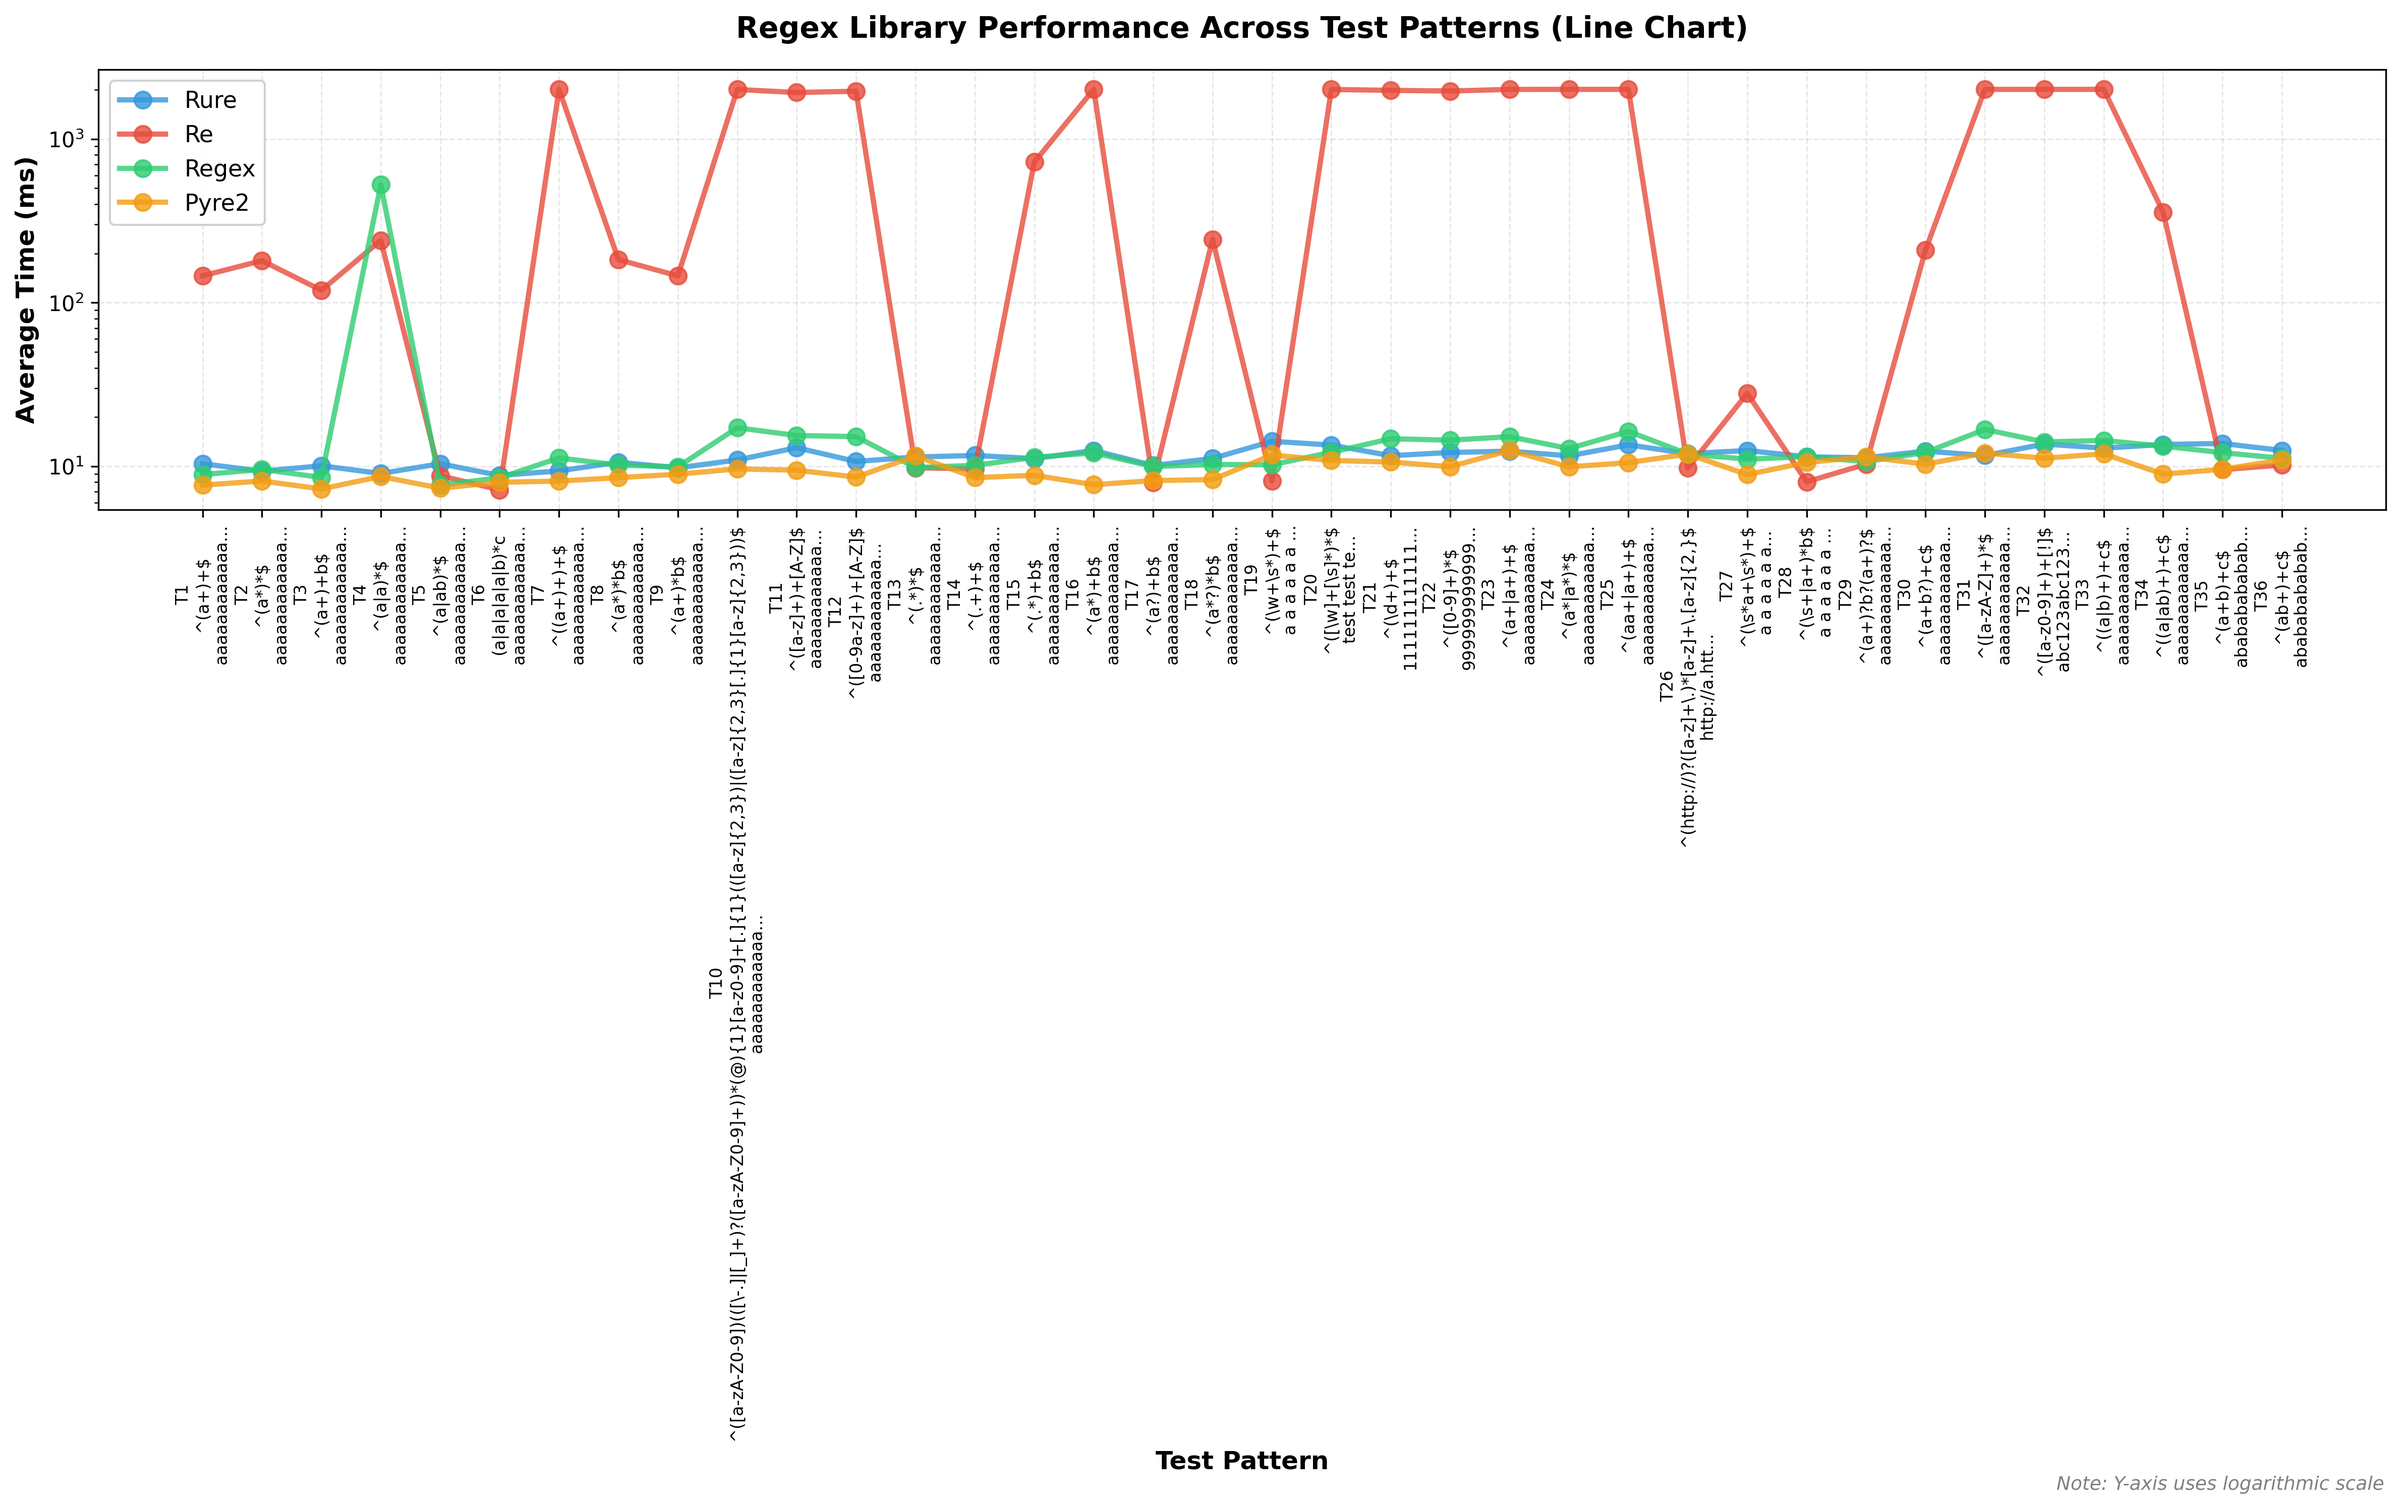
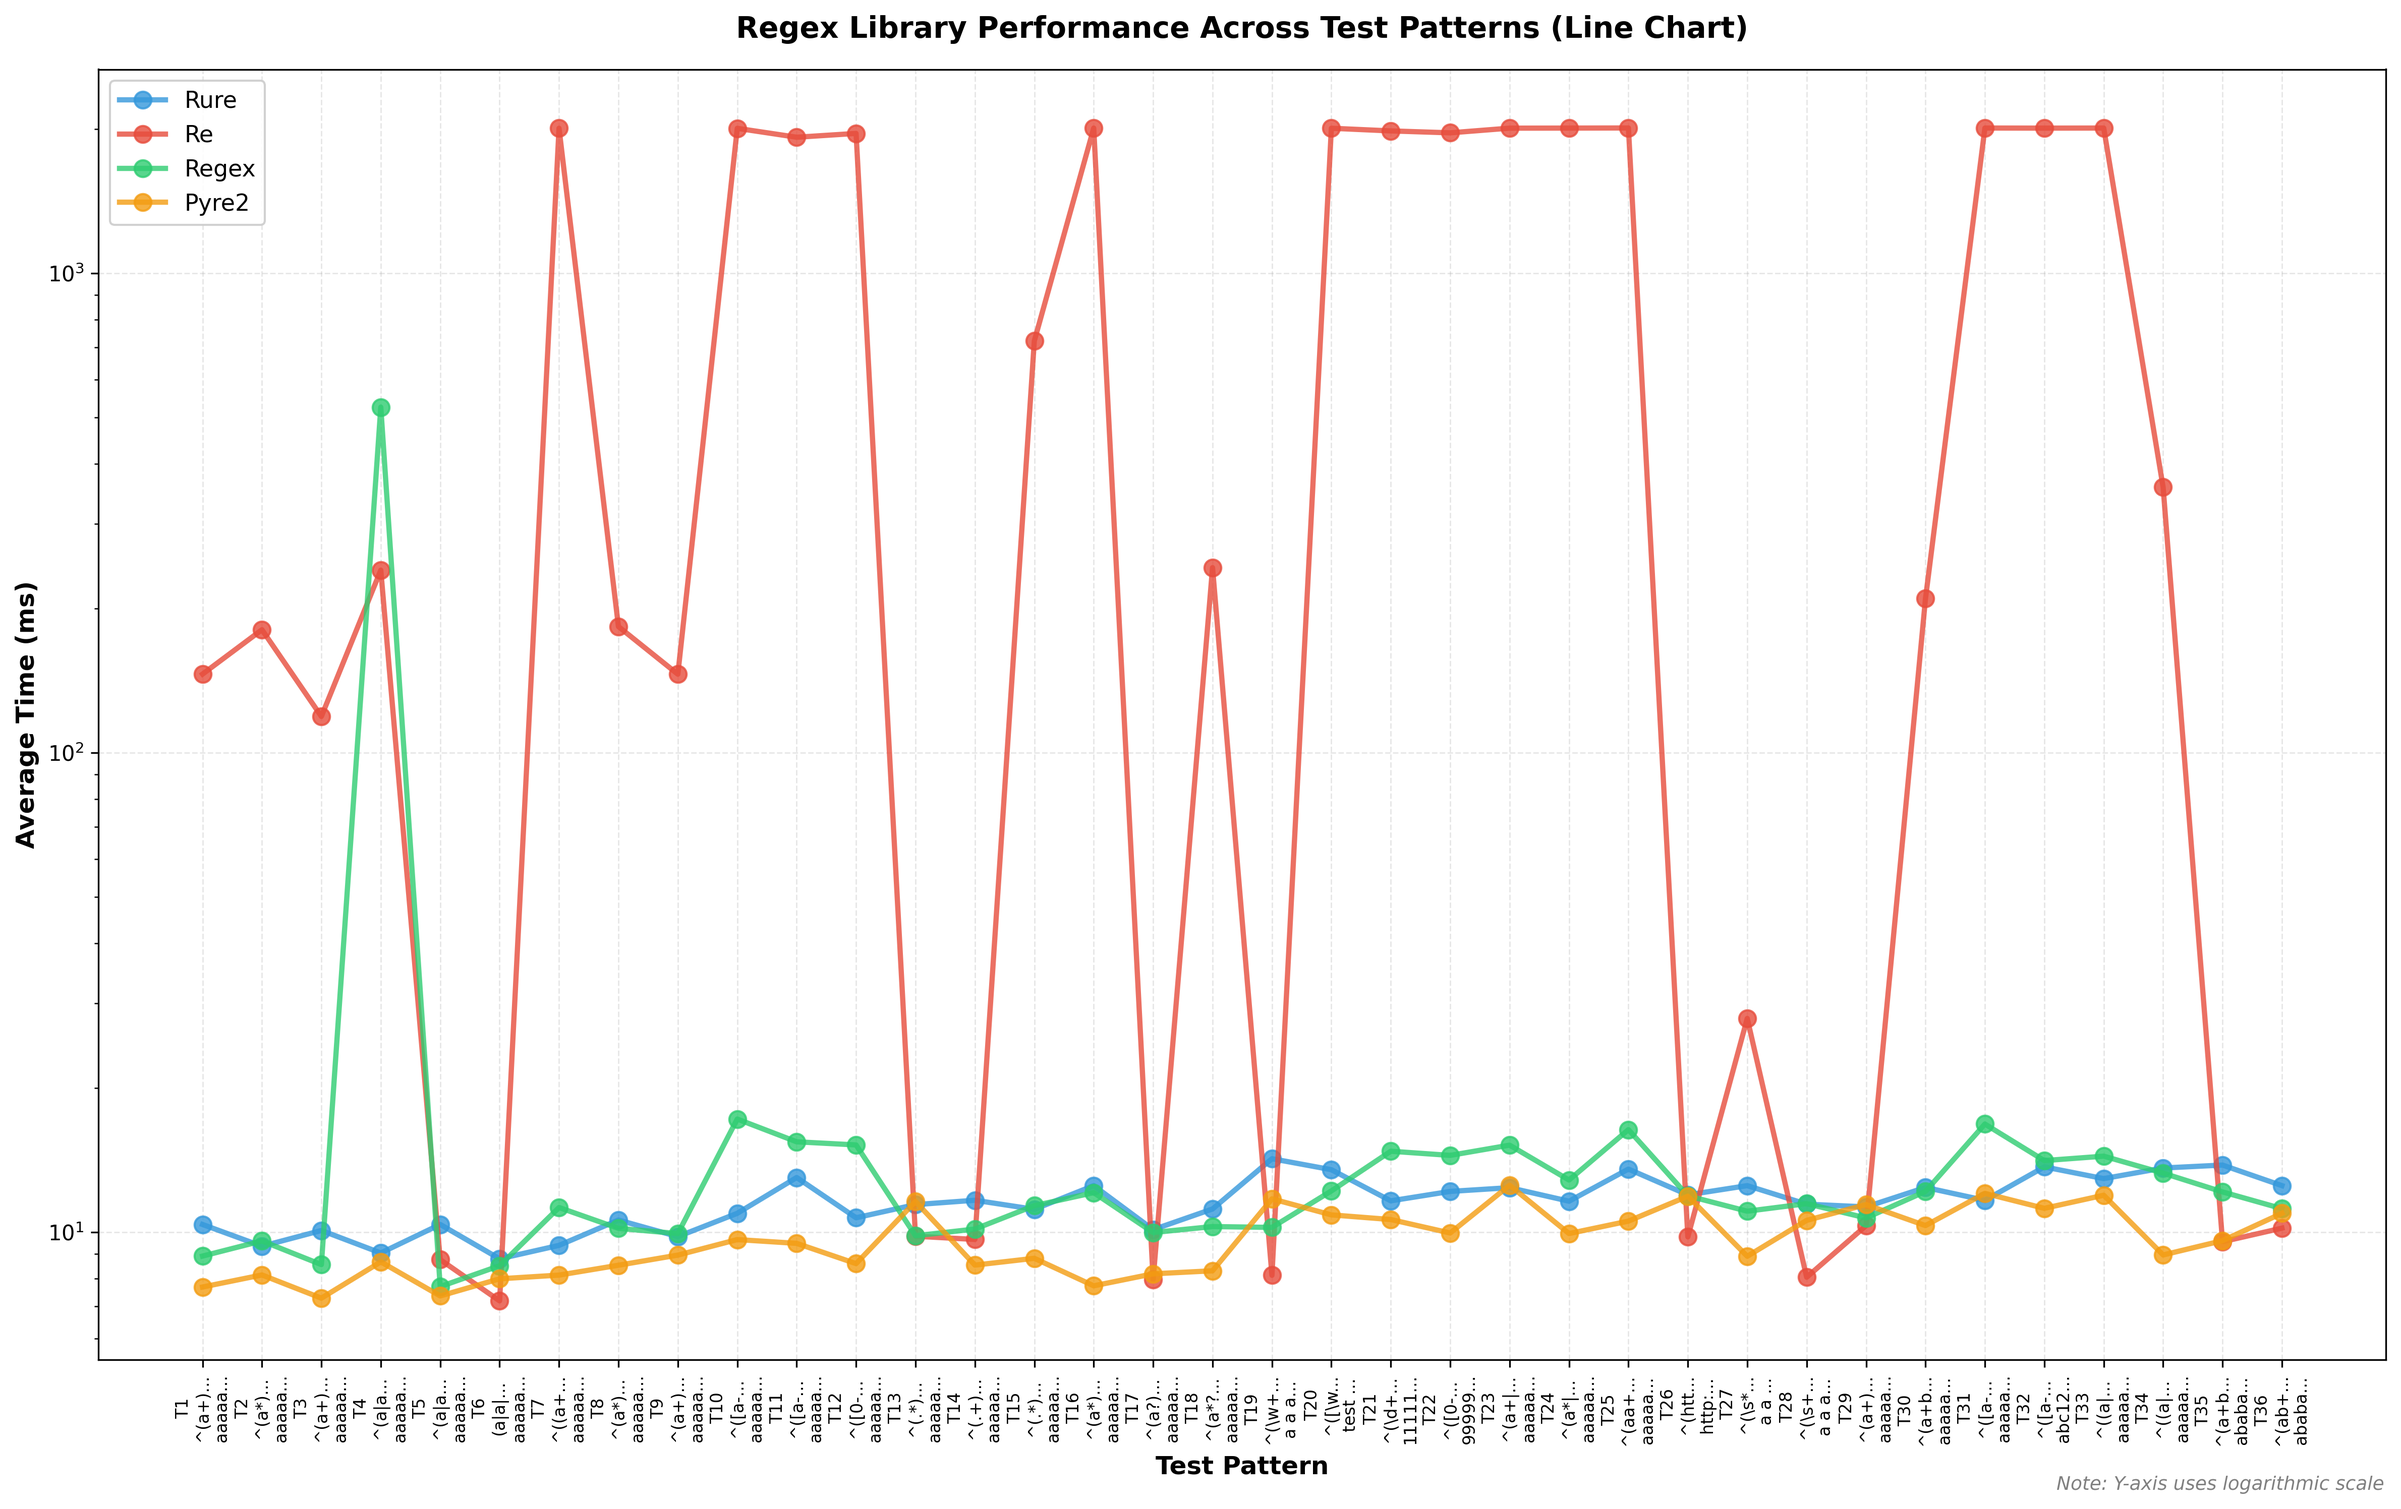
Add next tests

diff --git a/graph.py b/graph.py
@@ -44,8 +44,8 @@ colors = {"Rure": "#3498db", "Re": "#e74c3c", "Regex": "#2ecc71", "Pyre2": "#f39
 ###############################################################################
 # FIGURE 1: Original Overview Charts
 ###############################################################################
-fig1 = plt.figure(figsize=(16, 12))
-gs1 = fig1.add_gridspec(3, 2, height_ratios=[1, 1.2, 1], hspace=0.3)
+fig1 = plt.figure(figsize=(16, 10))
+gs1 = fig1.add_gridspec(2, 2, height_ratios=[1, 1], hspace=0.3)
 
 fig1.suptitle(
     "Regex Library Performance Benchmark Comparison", fontsize=16, fontweight="bold"
@@ -114,51 +114,8 @@ for i, (lib, timeout) in enumerate(zip(libraries, timeout_counts)):
         color="red" if timeout > 0 else "black",
     )
 
-# 3. Performance by Test (Bar Chart - spans full width)
-ax3 = fig1.add_subplot(gs1[1, :])
-
-# Get sorted test IDs
-test_ids = sorted(test_averages.keys())
-x = np.arange(len(test_ids))
-width = 0.2  # Width of bars
-
-# Plot bars for each library
-for i, lib in enumerate(libraries):
-    times = [test_averages[test_id].get(lib, 0) for test_id in test_ids]
-    offset = (i - len(libraries) / 2 + 0.5) * width
-    bars = ax3.bar(
-        x + offset,
-        times,
-        width,
-        label=lib,
-        color=colors[lib],
-        alpha=0.7,
-        edgecolor="black",
-    )
-
-ax3.set_ylabel("Average Time (ms)", fontweight="bold")
-ax3.set_title(
-    "Average Execution Time by Test Pattern (Bar Chart)", fontweight="bold", pad=10
-)
-ax3.set_xticks(x)
-
-# Create compact labels with pattern and input
-labels = []
-for test_id in test_ids:
-    pattern = test_patterns[test_id]["pattern"]
-    input_str = test_patterns[test_id]["input"]
-    # Truncate long inputs
-    if len(input_str) > 15:
-        input_str = input_str[:12] + "..."
-    labels.append(f"Test {test_id}\n{pattern}\n{input_str}")
-
-ax3.set_xticklabels(labels, fontsize=8, rotation=90, ha='center')
-ax3.legend(loc="upper left", ncol=4)
-ax3.grid(axis="y", alpha=0.3, linestyle="--")
-ax3.set_yscale("log")
-
-# 4. Min/Max Range Comparison
-ax4 = fig1.add_subplot(gs1[2, 0])
+# 3. Min/Max Range Comparison
+ax4 = fig1.add_subplot(gs1[1, 0])
 for i, lib in enumerate(libraries):
     min_time = summary[lib]["min_time"] * 1000
     max_time = summary[lib]["max_time"] * 1000
@@ -192,8 +149,8 @@ ax4.set_yscale("log")
 ax4.grid(True, alpha=0.3, linestyle="--")
 ax4.legend(["Range", "Median"], loc="upper left")
 
-# 5. Performance Summary Table
-ax5 = fig1.add_subplot(gs1[2, 1])
+# 4. Performance Summary Table
+ax5 = fig1.add_subplot(gs1[1, 1])
 ax5.axis("off")
 
 # Create table data
@@ -282,8 +239,11 @@ labels = []
 for test_id in test_ids:
     pattern = test_patterns[test_id]["pattern"]
     input_str = test_patterns[test_id]["input"]
-    if len(input_str) > 15:
-        input_str = input_str[:12] + "..."
+    # Truncate to 5 characters
+    if len(pattern) > 5:
+        pattern = pattern[:5] + "..."
+    if len(input_str) > 5:
+        input_str = input_str[:5] + "..."
     labels.append(f"T{test_id}\n{pattern}\n{input_str}")
 
 ax.set_xticklabels(labels, fontsize=8, rotation=90, ha='center')
